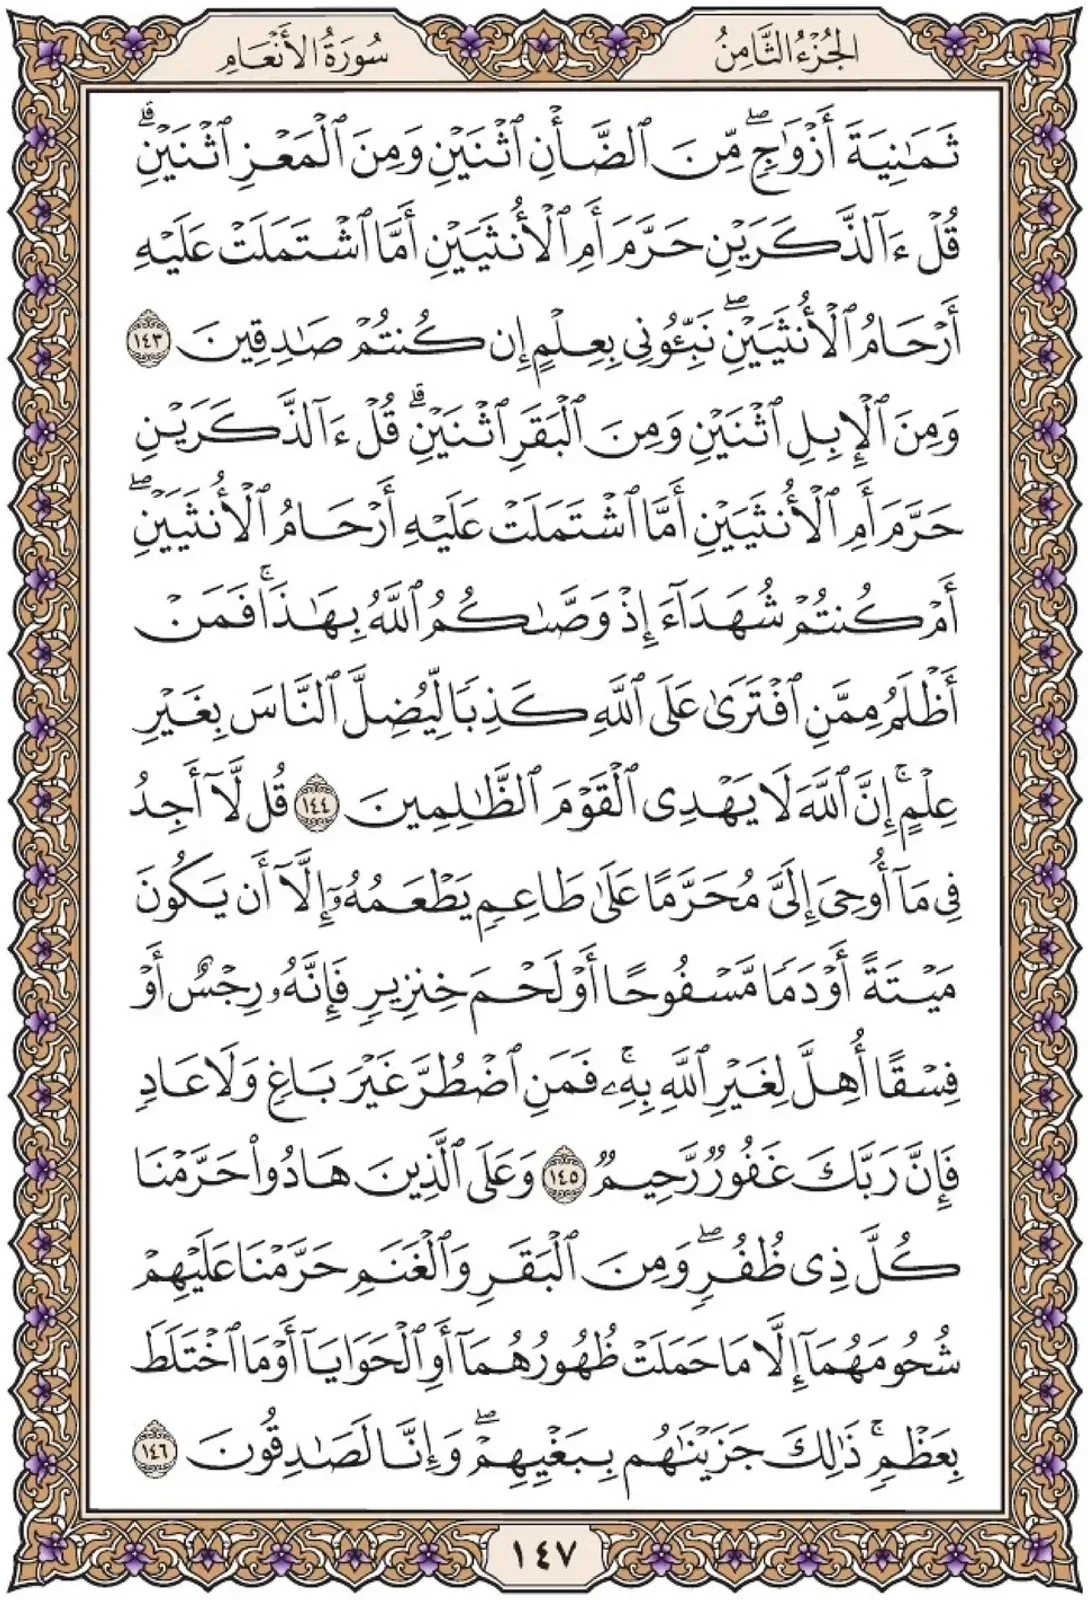
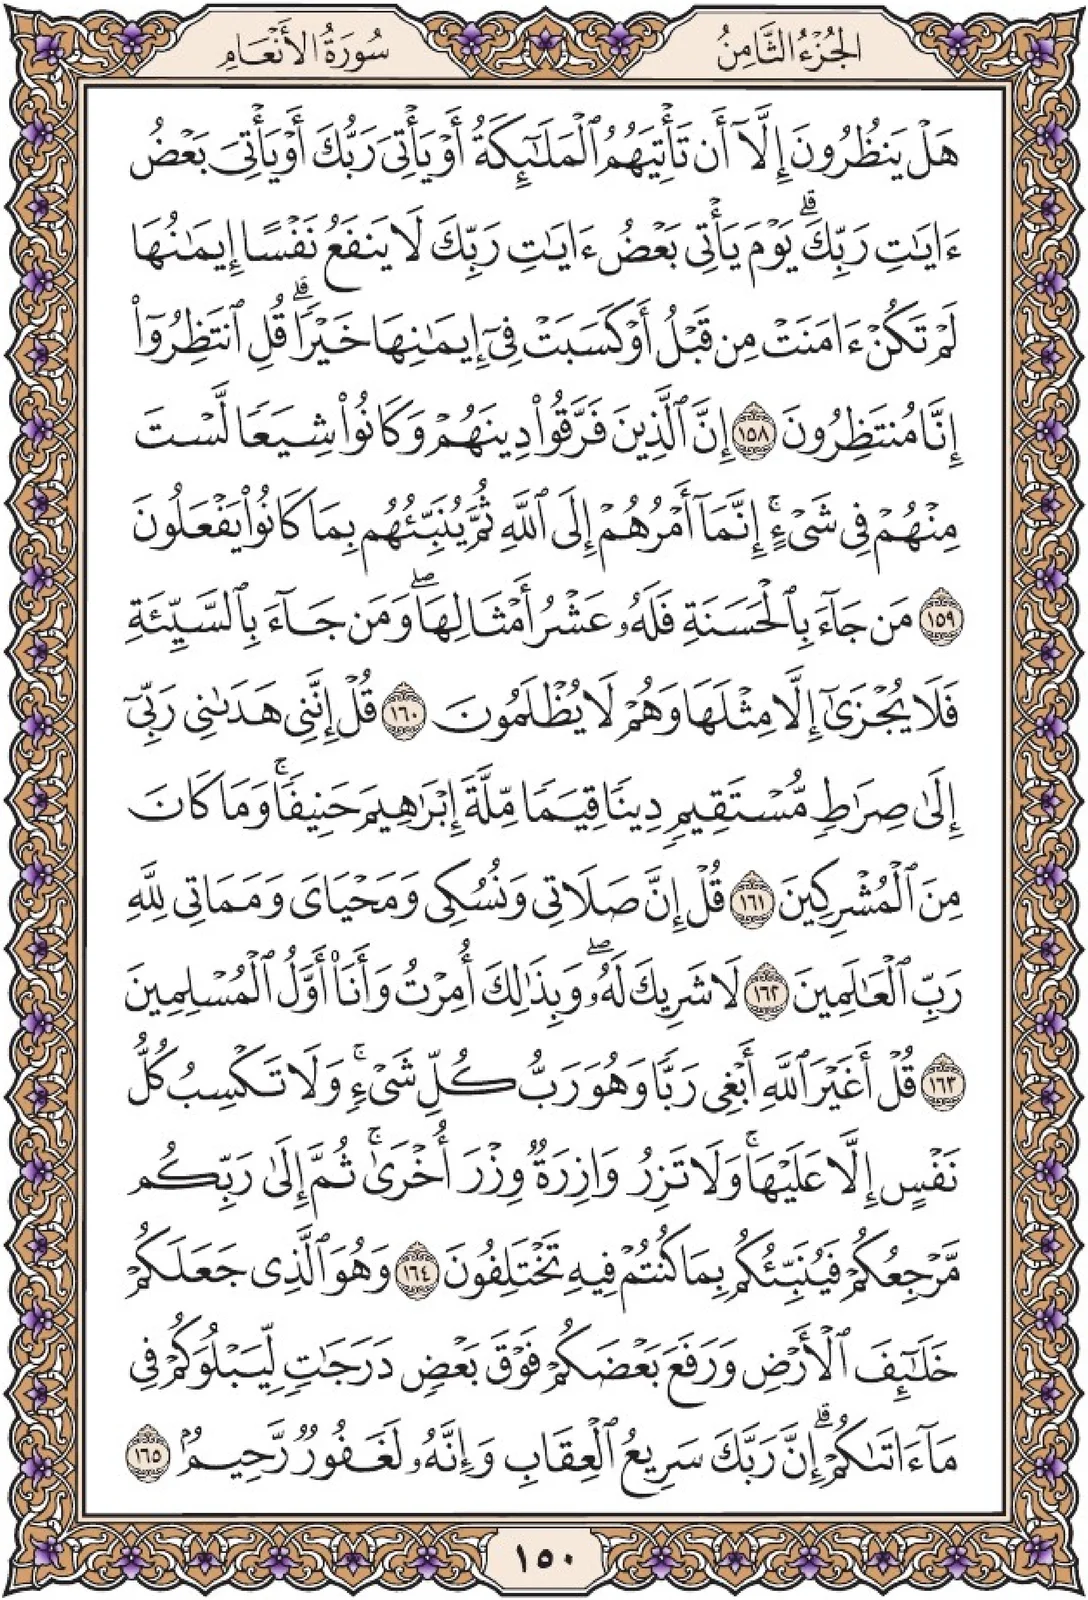
fix incorrect page , and fix delay when closing some tabs

diff --git a/src/pages/Surah.tsx b/src/pages/Surah.tsx
@@ -1,7 +1,7 @@
 import { useParams, useNavigate } from 'react-router-dom';
 import { ChevronLeft, ChevronRight, Bookmark, Volume2, Search, Navigation, BookmarkCheck, Menu, Book, Globe, X, Settings, BookMarked, BookOpen, Play, Pause, Square, ChevronDown, Repeat } from 'lucide-react';
 import { useEffect, useState, useRef, useCallback } from 'react';
-import { motion, AnimatePresence } from 'framer-motion';
+import { motion } from 'framer-motion';
 import { surahs } from '@/data/surahs';
 import { Button } from '@/components/ui/button';
 import { TopBar } from '@/components/quran/TopBar';
@@ -953,10 +953,8 @@ const Surah = () => {
       />
 
       {/* ConfigOverlay for Settings, Bookmarks, Tafseer, etc. */}
-      <AnimatePresence>
       {configOverlayType && (
         <ConfigOverlay
-          key="config-overlay"
           type={configOverlayType}
           onClose={() => setConfigOverlayType(null)}
           onChangeView={(view) => setConfigOverlayType(view)}
@@ -1042,7 +1040,6 @@ const Surah = () => {
           onSeekToAyahPosition={seekToAyahPosition}
         />
       )}
-      </AnimatePresence>
     </div>
   );
 };
